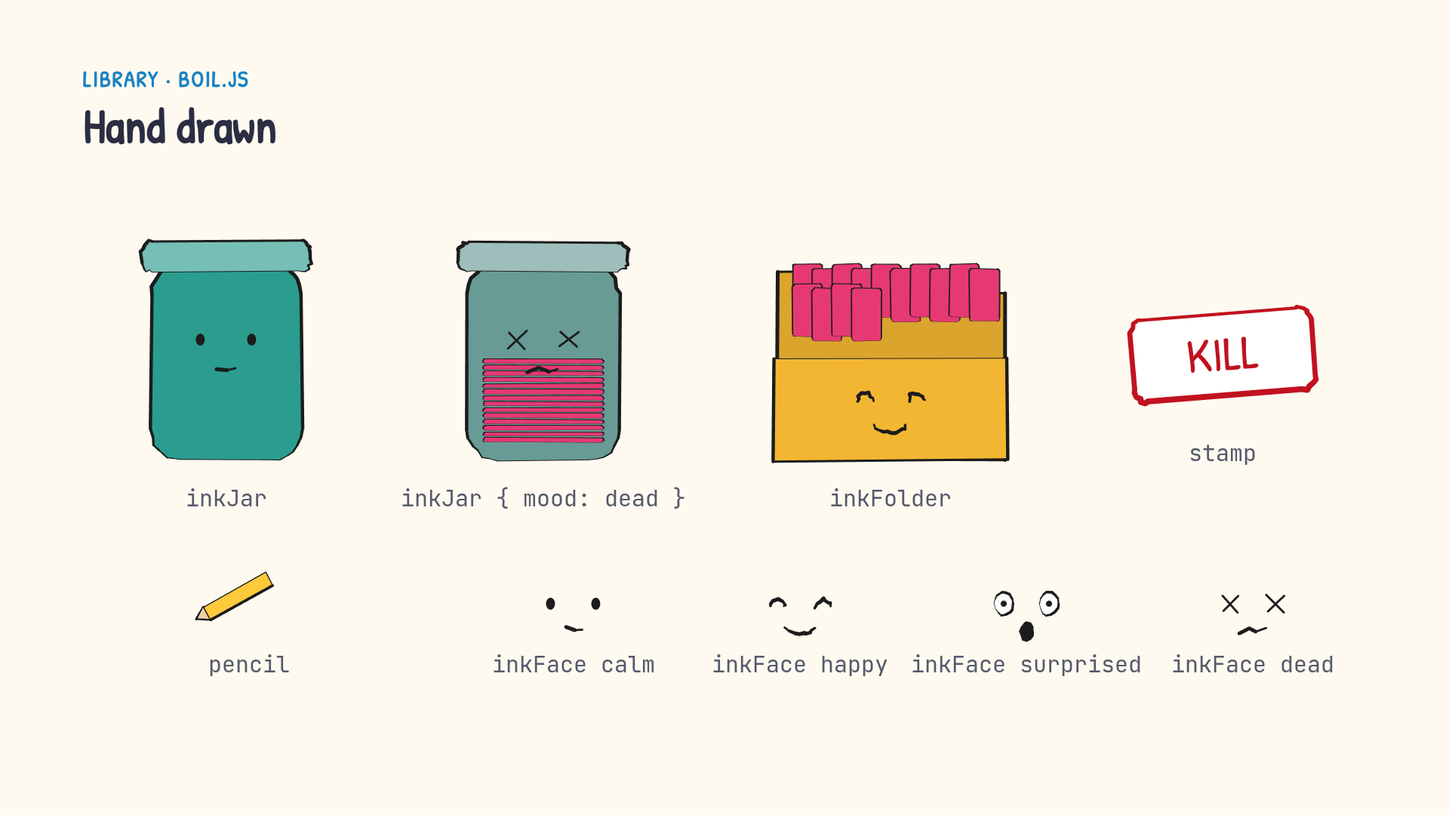
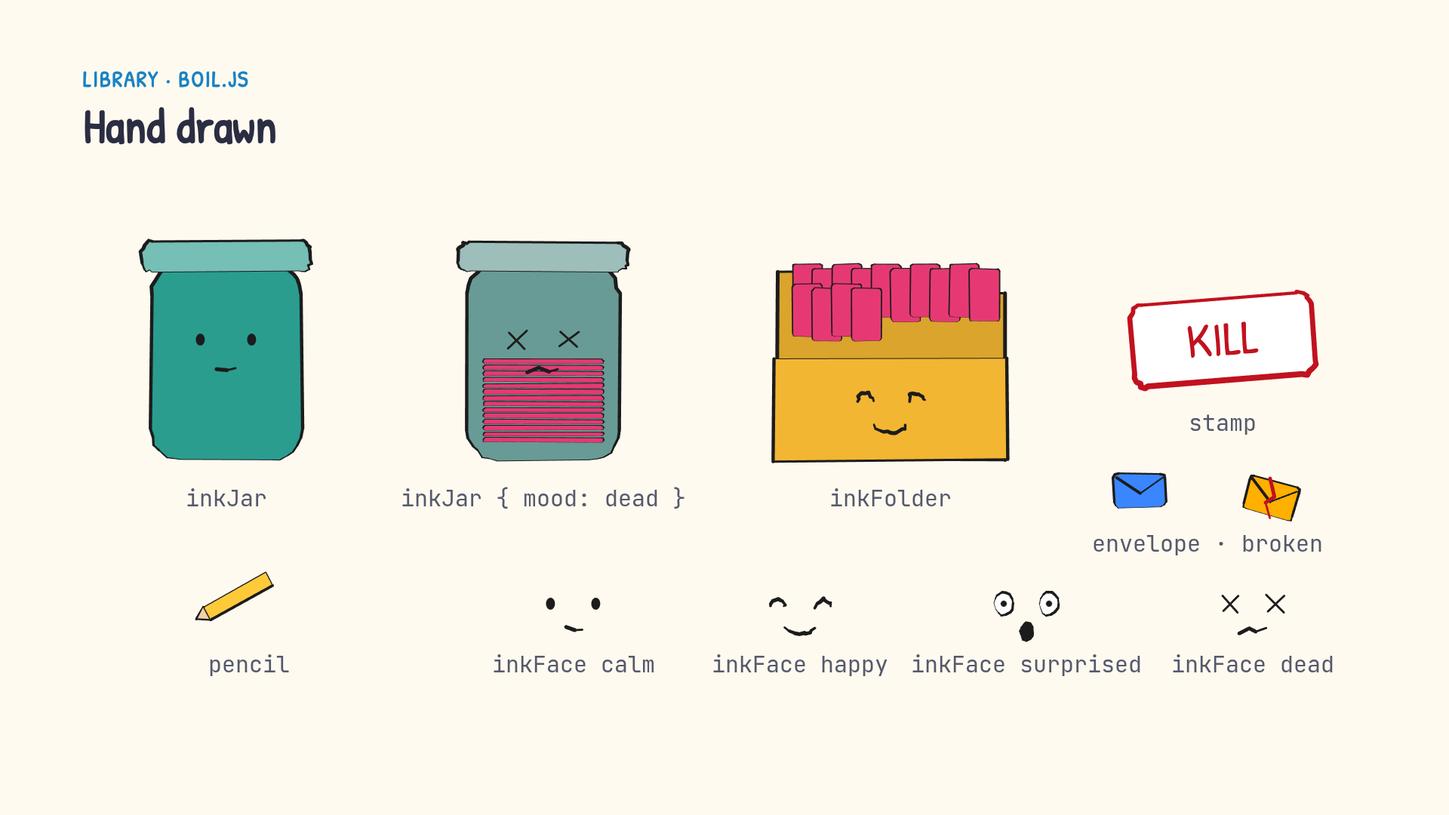
Add network drawings to the library; let verify check long videos
- Library: laptop (flat), envelope (boil), pxFrame, pxRing, pxPi, pxMac
  (pixel), eyeBlock and flag (toy 3D), and network colour roles in C
  (viewer, mcast, ucast, ws). All come from the DDS and Foxglove video
  (tank series, video 5), where they passed check, the rebuild check and
  verify.
- Gallery: the new items in the flat, boil and toy3d scenes, and a new
  pixel2 scene for the network characters, with its picture and caption.
- verify: raise the grey-frame buffer from 1 << 28 to 1 << 30. At
  160 x 90 grey, 1 << 28 held only about 10 min of video, and a 10 min
  45 s video stopped verify with ENOBUFS.

Changed region(s): [[0.7812, 0.3361, 0.9062, 0.5194], [0.8125, 0.5194, 0.9062, 0.6722], [0.75, 0.5806, 0.8125, 0.6722]]

diff --git a/gallery/scenes.js b/gallery/scenes.js
@@ -2,13 +2,13 @@
 // the last 8 draw every item of the shared library (styles/library/), one scene per module.
 // The end still of each scene is a picture in png/: <style>.png, or library-<module>.png.
 import { C, K, BG, FONT, header, showHeader, label, caption, lab, pin, arrow, leader, underLeader, tick, face, roundRect, wipeIn } from '/_lib/common.js';
-import { barrel, card, drone, folderBack, folderLip, gpuBox, tankSide, tankTop, tile } from '/_lib/flat.js';
+import { barrel, card, drone, folderBack, folderLip, gpuBox, laptop, tankSide, tankTop, tile } from '/_lib/flat.js';
 import { blobRow } from '/_lib/morph.js';
 import { isoBuilding, isoFileBlock, isoPlate, tone } from '/_lib/iso.js';
-import { BOIL, INK, inkFace, inkFolder, inkJar, pencil, stamp } from '/_lib/boil.js';
+import { BOIL, INK, envelope, inkFace, inkFolder, inkJar, pencil, stamp } from '/_lib/boil.js';
 import { PAPER, circlePts, paperCard, paperGrain, paperPerson, paperPiece, paperReceipt, rectPts } from '/_lib/paper.js';
-import { PX, pxCrate, pxDialog, pxGpu, pxPadlock, pxR, pxShelf, pxText, pxWorker } from '/_lib/pixel.js';
-import { cart, fileCube, gizmo, makeTank, nasTower, world } from '/_lib/toy3d.js';
+import { PX, pxCrate, pxDialog, pxFrame, pxGpu, pxMac, pxPadlock, pxPi, pxR, pxRing, pxShelf, pxText, pxWorker } from '/_lib/pixel.js';
+import { cart, eyeBlock, fileCube, flag, gizmo, makeTank, nasTower, world } from '/_lib/toy3d.js';
 
 // ==================== adapted styles ====================
 // ---------- newsreel ----------
@@ -123,7 +123,7 @@ scene('flat', {
     s.c = s.canvas();
     s.h = header(s, { kicker: 'LIBRARY · FLAT.JS', title: 'Flat props' });
     s.names = [
-      NM(s, 'drone', 330, 540), NM(s, 'barrel', 960, 580), NM(s, 'barrel { cut: 1 }', 1590, 580),
+      NM(s, 'drone', 330, 540), NM(s, 'barrel', 900, 580), NM(s, 'laptop', 1265, 580), NM(s, 'barrel { cut: 1 }', 1620, 580),
       NM(s, 'folderBack · tile · folderLip', 360, 880), NM(s, 'tankSide', 860, 880), NM(s, 'tankTop', 1130, 880),
       NM(s, 'card', 1450, 880), NM(s, 'gpuBox', 1700, 880),
     ];
@@ -132,8 +132,9 @@ scene('flat', {
     const c = s.c; c.clearRect(0, 0, W, H);
     showHeader(s, s.h, 0.1);
     drone(c, 330, 400, 0.9, s.t, { look: [0, 0.5] });
-    barrel(c, 960, 530, 170, 220);
-    barrel(c, 1590, 530, 200, 240, { cut: 1 });
+    barrel(c, 900, 530, 170, 220);
+    laptop(c, 1265, 530, 0.7, { mood: 'happy', map: 0.7 });
+    barrel(c, 1620, 530, 200, 240, { cut: 1 });
     folderBack(c, 360, 830, 360, 220);
     for (let i = 0; i < 6; i++) tile(c, 360 - 110 + (i % 3) * 110, 650 + Math.floor(i / 3) * 90, 70);
     folderLip(c, 360, 830, 360, 40);
@@ -197,7 +198,7 @@ scene('boil', {
     s.h = header(s, { kicker: 'LIBRARY · BOIL.JS', title: 'Hand drawn', font: FONT.hand, kColor: BOIL.blue, tSize: 64 });
     s.moods = ['calm', 'happy', 'surprised', 'dead'];
     s.names = [
-      NM(s, 'inkJar', 300, 660), NM(s, 'inkJar { mood: dead }', 720, 660), NM(s, 'inkFolder', 1180, 660), NM(s, 'stamp', 1620, 600),
+      NM(s, 'inkJar', 300, 660), NM(s, 'inkJar { mood: dead }', 720, 660), NM(s, 'inkFolder', 1180, 660), NM(s, 'stamp', 1620, 560), NM(s, 'envelope · broken', 1600, 720),
       NM(s, 'pencil', 330, 880), ...s.moods.map((m, i) => NM(s, `inkFace ${m}`, 760 + i * 300, 880)),
     ];
   },
@@ -207,7 +208,9 @@ scene('boil', {
     inkJar(s, c, 300, 610, { h: 260, w: 200 });
     inkJar(s, c, 720, 610, { h: 260, w: 200, mood: 'dead', pages: 14, fill: mix(K.file, '#9a9a9a', 0.55), seed: 60 });
     inkFolder(s, c, 1180, 610, { h: 220, mood: 'happy', sheets: 14 });
-    stamp(s, c, 1620, 470, 'KILL');
+    stamp(s, c, 1620, 450, 'KILL');
+    envelope(s, c, 1510, 650, C.ucast, 95);
+    envelope(s, c, 1690, 640, C.mcast, 97, { broken: 0.35 });
     pencil(s, c, 260, 820, -0.5, 80);
     s.moods.forEach((m, i) => inkFace(s, c, 760 + i * 300, 800, 30, m, 90 + i * 5));
     showAll(s, s.names);
@@ -269,6 +272,32 @@ scene('pixel', {
   },
 });
 
+// ============================ pixel.js, network characters ============================
+scene('pixel2', {
+  bg: PX.k,
+  setup(s) {
+    s.px = s.canvas({ w: 320, h: 180, pixel: true });
+  },
+  draw(s) {
+    const c = s.px, t = s.tq(10);
+    c.clearRect(0, 0, 320, 180);
+    pxR(c, 0, 0, 320, 180, 'k');
+    pxText(c, 'LIBRARY - PIXEL.JS, NETWORKS', 12, 10, PX.y);
+    for (let y = 98; y < 110; y++) for (let x = 0; x < 320; x++) if (0.2 > bayer(x, y)) pxR(c, x, y, 1, 1, 'g1');
+    for (let k = 0; k < 3; k++) { const r = 24 + ((t * 24 + k * 8) % 24); pxRing(c, 60, 78, r, r > 42 ? PX.o : PX.y, 40, 96); }
+    pxPi(c, 60, 88);
+    pxPi(c, 130, 88, { sad: true, dim: true });
+    pxMac(c, 200, 88, { mood: 'happy', topics: 1 });
+    pxMac(c, 270, 88, { mood: 'sad' });
+    pxText(c, 'PXPI PXRING', 30, 114, PX.g3);
+    pxText(c, 'DIM', 120, 114, PX.g3);
+    pxText(c, 'PXMAC', 186, 114, PX.g3);
+    pxText(c, 'SAD', 261, 114, PX.g3);
+    pxFrame(c, 8, 128, 304, 22, 'k', 'w');
+    pxText(c, 'PXFRAME - A BOX WITH A BORDER', 16, 136, PX.w);
+  },
+});
+
 // ============================ toy3d.js ============================
 scene('toy3d', {
   bg: BG.pink,
@@ -281,8 +310,10 @@ scene('toy3d', {
     for (let i = 0; i < 9; i++) { const f = fileCube(g, shared); shared = f.userData.shared; f.position.set(0.7 + (i % 3) * 0.42, 0, -0.1 + Math.floor(i / 3) * 0.42); scene.add(f); s.cubes.push(f); }
     s.nas = nasTower(g); s.nas.position.set(5.0, 0, -0.4); scene.add(s.nas);
     s.cart = cart(g); s.cart.position.set(3.2, 0, 0.9); scene.add(s.cart);
+    s.eye = eyeBlock(g, C.viewer, { dir: -1 }); s.eye.scale.setScalar(0.8); s.eye.position.set(1.6, 0, -2.6); scene.add(s.eye);
+    s.flag = flag(g, C.mcast); s.flag.position.set(-0.2, 0, -2.4); scene.add(s.flag);
     s.h = header(s, { kicker: 'LIBRARY · TOY3D.JS · world()', title: 'Toy 3D', kColor: '#b8406a' });
-    s.nm = { tank: NM(s, 'makeTank', 0, 0), gz: NM(s, 'gizmo', 0, 0), cubes: NM(s, 'fileCube', 0, 0), nas: NM(s, 'nasTower', 0, 0), cart: NM(s, 'cart', 0, 0) };
+    s.nm = { tank: NM(s, 'makeTank', 0, 0), gz: NM(s, 'gizmo', 0, 0), cubes: NM(s, 'fileCube', 0, 0), nas: NM(s, 'nasTower', 0, 0), cart: NM(s, 'cart', 0, 0), eye: NM(s, 'eyeBlock', 0, 0), flag: NM(s, 'flag', 0, 0) };
     await g.ready();
   },
   draw(s) {
@@ -294,6 +325,8 @@ scene('toy3d', {
     pin(s.nm.cubes, g.proj(V(1.1, 0, 1.6)));
     pin(s.nm.cart, g.proj(V(3.2, 0, 2.2)));
     pin(s.nm.nas, g.proj(V(5.0, 0, 1.3)));
+    pin(s.nm.eye, g.proj(V(1.6, 1.9, -2.6)));
+    pin(s.nm.flag, g.proj(V(-0.2, 1.9, -2.4)));
     Object.values(s.nm).forEach((n, i) => lab(s, n, 0.4 + i * 0.05));
     g.render();
   },

diff --git a/gallery/index.html b/gallery/index.html
@@ -277,19 +277,21 @@ footer p + p { margin-top: 10px; }
     <div class="frames">
       <figure class="big"><a href="png/library-common.png"><img src="png/library-common.png" width="1920" height="1080" alt="Common parts: six faces, an arrow, two leader lines and a tick, each with its function name" loading="lazy"></a>
         <figcaption><span class="mono">common.js</span>Every style uses these headers, labels, arrows and faces.</figcaption></figure>
-      <figure class="big"><a href="png/library-flat.png"><img src="png/library-flat.png" width="1920" height="1080" alt="Flat props: a drone, barrels, a folder of tiles, a tank, cards and a GPU box, some with faces" loading="lazy"></a>
+      <figure class="big"><a href="png/library-flat.png"><img src="png/library-flat.png" width="1920" height="1080" alt="Flat props: a drone, barrels, a laptop with a map, a folder of tiles, a tank, cards and a GPU box, some with faces" loading="lazy"></a>
         <figcaption><span class="mono">flat.js</span>The tank, the drone, the files and the boxes have faces.</figcaption></figure>
       <figure><a href="png/library-morph.png"><img src="png/library-morph.png" width="1920" height="1080" alt="Shape morph on navy: pink blobs join into one bar, then split into chunks" loading="lazy"></a>
         <figcaption><span class="mono">morph.js</span>Shapes join into one bar or split into chunks.</figcaption></figure>
       <figure><a href="png/library-iso.png"><img src="png/library-iso.png" width="1920" height="1080" alt="Isometric buildings: one closed, one with the roof lifted to show pink blocks inside" loading="lazy"></a>
         <figcaption><span class="mono">iso.js</span>A roof lifts to show what happens inside a building.</figcaption></figure>
-      <figure><a href="png/library-boil.png"><img src="png/library-boil.png" width="1920" height="1080" alt="Hand-drawn ink jars, a folder, a pencil, a stamp and ink faces" loading="lazy"></a>
+      <figure><a href="png/library-boil.png"><img src="png/library-boil.png" width="1920" height="1080" alt="Hand-drawn ink jars, a folder, a pencil, a stamp, two envelopes (one lost) and ink faces" loading="lazy"></a>
         <figcaption><span class="mono">boil.js</span>The ink lines change shape slightly 12 times a second, like a hand-drawn cartoon.</figcaption></figure>
       <figure><a href="png/library-paper.png"><img src="png/library-paper.png" width="1920" height="1080" alt="Paper cut-out shapes, a receipt, cards and two paper people, one holding a stop sign" loading="lazy"></a>
         <figcaption><span class="mono">paper.js</span>Card shapes have rough edges, and arms turn on split pins.</figcaption></figure>
       <figure><a href="png/library-pixel.png"><img src="png/library-pixel.png" width="1920" height="1080" alt="Pixel art: a shelf, a crate, a GPU, two small workers and a dialogue box" loading="lazy"></a>
         <figcaption><span class="mono">pixel.js</span>A 320 × 180 pixel canvas, scaled 6 times, shows typed dialogue.</figcaption></figure>
-      <figure><a href="png/library-toy3d.png"><img src="png/library-toy3d.png" width="1920" height="1080" alt="Toy 3D: a soft tank, an axis gizmo, file cubes, a cart and a server tower" loading="lazy"></a>
+      <figure><a href="png/library-pixel2.png"><img src="png/library-pixel2.png" width="1920" height="1080" alt="Pixel art for networks: the robot computer and the laptop as small characters, one dimmed, one sad, and a multicast ring" loading="lazy"></a>
+        <figcaption><span class="mono">pixel.js</span>Network characters: the robot computer, the laptop and a multicast ring.</figcaption></figure>
+      <figure><a href="png/library-toy3d.png"><img src="png/library-toy3d.png" width="1920" height="1080" alt="Toy 3D: a soft tank, an axis gizmo, file cubes, a cart, a server tower, a block with eyes and a flag" loading="lazy"></a>
         <figcaption><span class="mono">toy3d.js</span>Soft Three.js objects drop, land and cast a contact shadow.</figcaption></figure>
     </div>
   </div>

diff --git a/styles/library/pixel.js b/styles/library/pixel.js
@@ -1,6 +1,6 @@
 // Pixel-art parts (style: styles/pixel-art.md). Draw on s.canvas({ w: 320, h: 180, pixel: true }) from s.tq(10).
 // All positions are whole canvas pixels; 1 canvas px = 6 stage px.
-// import { PX, pxR, pxText, pxWorker, pxPadlock, pxGpu, pxShelf, pxCrate, pxDialog, pxFloor } from '/_lib/pixel.js';
+// import { PX, pxR, pxText, pxWorker, pxPadlock, pxGpu, pxShelf, pxCrate, pxDialog, pxFloor, pxFrame, pxRing, pxPi, pxMac } from '/_lib/pixel.js';
 
 // The fixed palette, plus two colour roles kept from the other styles: tl = a file (teal), pk = a chunk (pink).
 export const PX = { k: '#1a1c2c', p: '#5d275d', r: '#b13e53', o: '#ef7d57', y: '#ffcd75', lg: '#a7f070', g: '#38b764', b: '#41a6f6', g1: '#333c57', g2: '#566c86', g3: '#94b0c2', w: '#f4f4f4', tl: '#2a9d8f', pk: '#e63973' };
@@ -66,4 +66,33 @@ export function pxDialog(c, t, lines, { cps = 34 } = {}) {
   pxText(c, cur[1], 16, 130, PX.y);
   pxText(c, typed(cur[2], t - cur[0], cps), 16, 141, PX.w);
   if (Math.floor(t * 3) % 2) pxR(c, 302, 146, 4, 3, 'w');
+}
+
+// ---------- network characters (DDS and Foxglove video, tank series video 5) ----------
+// A box with a 1 px border.
+export function pxFrame(c, x, y, w, h, fill, border) { pxR(c, x, y, w, h, border); pxR(c, x + 1, y + 1, w - 2, h - 2, fill); }
+// A ring of single pixels (a multicast wave), squashed to 0.75 high, drawn only between rows yMin and yMax.
+export function pxRing(c, cx, cy, r, col, yMin = 0, yMax = 180) {
+  const n = Math.max(12, Math.round(r * 5));
+  for (let i = 0; i < n; i++) { const a = (i / n) * Math.PI * 2, y = Math.round(cy + Math.sin(a) * r * 0.75); if (y < yMin || y > yMax) continue; pxR(c, Math.round(cx + Math.cos(a) * r), y, 1, 1, col); }
+}
+// The robot computer as a small tank with a face (the Pi). (x, y) = centre of the base line. dim = greyed out.
+export function pxPi(c, x, y, { sad = false, dim = false, blink = false } = {}) {
+  const o = dim ? PX.g2 : '#f2773a', hi = dim ? PX.g3 : PX.y;
+  pxR(c, x - 15, y + 2, 30, 6, PX.g1); for (let i = 0; i < 5; i++) pxR(c, x - 13 + i * 6, y + 4, 3, 2, PX.g2);
+  pxR(c, x - 13, y - 14, 26, 16, o); pxR(c, x - 13, y - 14, 26, 2, hi);
+  pxR(c, x - 3, y - 19, 8, 5, dim ? PX.g2 : PX.pk);
+  if (!blink) { pxR(c, x + 1, y - 9, 2, 3, PX.k); pxR(c, x + 7, y - 9, 2, 3, PX.k); }
+  if (sad) pxR(c, x + 2, y - 3, 6, 1, PX.k); else { pxR(c, x + 2, y - 4, 1, 1, PX.k); pxR(c, x + 3, y - 3, 4, 1, PX.k); pxR(c, x + 7, y - 4, 1, 1, PX.k); }
+}
+// The viewer's laptop with a face (the Mac). topics 0..1 fills pink and yellow topic rows on its screen.
+export function pxMac(c, x, y, { mood = 'calm', topics = 0, blink = false } = {}) {
+  pxFrame(c, x - 16, y - 24, 32, 22, '#dfe3f5', '#3a3f6b');
+  pxR(c, x - 15, y - 23, 30, 1, '#3a3f6b');
+  pxR(c, x - 20, y - 2, 40, 3, '#3a3f6b');
+  if (topics > 0) { pxR(c, x - 13, y - 20, Math.round(10 * topics), 2, PX.pk); pxR(c, x - 13, y - 16, Math.round(10 * topics), 2, PX.y); pxR(c, x - 13, y - 12, Math.round(7 * topics), 2, PX.pk); }
+  if (!blink) { pxR(c, x + 3, y - 17, 2, 3, PX.k); pxR(c, x + 9, y - 17, 2, 3, PX.k); }
+  if (mood === 'sad') pxR(c, x + 4, y - 9, 6, 1, PX.k);
+  else if (mood === 'happy') { pxR(c, x + 3, y - 10, 1, 1, PX.k); pxR(c, x + 4, y - 9, 6, 1, PX.k); pxR(c, x + 10, y - 10, 1, 1, PX.k); }
+  else pxR(c, x + 5, y - 9, 4, 1, PX.k);
 }

diff --git a/styles/library/flat.js b/styles/library/flat.js
@@ -1,5 +1,5 @@
 // Flat-vector props (style: styles/flat-vector.md). Canvas 2D, flat fills, 4 px ink outlines.
-// import { tile, barrel, folderBack, folderLip, drone, tankSide, tankTop, card, gpuBox } from '/_lib/flat.js';
+// import { tile, barrel, folderBack, folderLip, drone, tankSide, tankTop, card, gpuBox, laptop } from '/_lib/flat.js';
 import { C, K, roundRect, face } from './common.js';
 
 // A chunk tile: rounded square with a small white wave (a signal window, a record). Centre (x, y).
@@ -139,4 +139,28 @@ export function tankTop(c, x, y, heading = 0, sc = 1, { color = C.robot, ink = C
   if (nose) { c.fillStyle = ink; c.beginPath(); c.moveTo(30, 0); c.lineTo(18, -8); c.lineTo(18, 8); c.closePath(); c.fill(); }
   if (lidar) { c.fillStyle = lidarColor; c.beginPath(); c.arc(4, 0, 9, 0, Math.PI * 2); c.fill(); c.stroke(); }
   c.restore();
+}
+
+// The viewer's laptop as a character (the Mac in the DDS video): a face on the right half of the screen,
+// a map panel on the left that fills with map (0..1), or a terminal with lines of text (term: ['line', ...]).
+// (x, y) = bottom centre of the base. From the DDS and Foxglove video (tank series, video 5).
+export function laptop(c, x, y, sc = 1, { mood = 'calm', look = [-1, 0], blink = 0, map = 0, mapColor = C.map, screen = C.viewerLight, body = C.viewer, term = null } = {}) {
+  c.save(); c.translate(x, y); c.scale(sc, sc);
+  c.lineJoin = 'round'; c.lineWidth = 5; c.strokeStyle = C.ink;
+  c.fillStyle = body; roundRect(c, -150, -210, 300, 200, 18); c.fill(); c.stroke();
+  c.fillStyle = screen; roundRect(c, -134, -194, 268, 168, 10); c.fill();
+  c.fillStyle = body; c.beginPath(); c.moveTo(-190, 0); c.lineTo(190, 0); c.lineTo(160, -14); c.lineTo(-160, -14); c.closePath(); c.fill(); c.stroke();
+  if (map > 0) {
+    const cells = [[0, 0], [1, 0], [0, 1], [1, 1], [2, 1], [1, 2], [2, 2], [0, 2], [2, 0], [1, 3], [0, 3], [2, 3]];
+    const n = Math.round(cells.length * clamp(map));
+    c.fillStyle = mapColor;
+    for (let i = 0; i < n; i++) { const [i0, j0] = cells[i]; c.fillRect(-122 + i0 * 34, -182 + j0 * 36, 32, 34); }
+  }
+  if (term) {
+    c.fillStyle = '#1b1e2e'; roundRect(c, -134, -194, 268, 168, 10); c.fill();
+    c.fillStyle = '#9ef0c0'; c.font = '500 26px "JetBrains Mono"'; c.textAlign = 'left'; c.textBaseline = 'top';
+    term.forEach((ln, i) => c.fillText(ln, -120, -180 + i * 34));
+  }
+  c.restore();
+  if (!term) face(c, x + 62 * sc, y - 120 * sc, 22 * sc, { mood, look, blink });
 }

diff --git a/styles/library/toy3d.js b/styles/library/toy3d.js
@@ -1,5 +1,5 @@
 // Toy 3D parts (style: styles/toy-3d.md). Three.js through s.three().
-// import { world, showK, AX, gizmo, gizmoGrow, tube, stretch, setOpacity, makeTank, fileCube, nasTower, cart } from '/_lib/toy3d.js';
+// import { world, showK, AX, gizmo, gizmoGrow, tube, stretch, setOpacity, makeTank, fileCube, nasTower, cart, eyeBlock, flag } from '/_lib/toy3d.js';
 //
 // Two rules learned on the GPU path (see SKILL.md step 8b):
 //  - Hide an object with showK(obj, k) (a tiny scale), not with obj.visible = false. An object
@@ -110,4 +110,25 @@ export function cart(g, { color = K.worker } = {}) {
   const load = g.box(0.26, 0.26, 0.26, K.chunk); load.position.y = 0.6; grp.add(load);
   grp.userData.load = load;
   return grp;
+}
+
+// A block character with two eyes on one side (a DDS writer or reader in the DDS video).
+// dir = 1 looks to +x, -1 to -x. Base on the floor at the group origin.
+export function eyeBlock(g, color, { w = 1.6, h = 1.4, d = 1.6, dir = 1 } = {}) {
+  const { THREE } = g, grp = new THREE.Group();
+  const b = g.box(w, h, d, color); b.position.y = h / 2; grp.add(b);
+  for (const z of [-0.28, 0.28]) {
+    const e = g.ball(0.16, '#ffffff'); e.scale.set(0.5, 1, 1); e.position.set(dir * w / 2, h * 0.68, z);
+    const p = g.ball(0.075, C.ink); p.position.set(dir * (w / 2 + 0.08), h * 0.68, z);
+    grp.add(e, p);
+  }
+  return grp;
+}
+// A small flag on a pole (a heartbeat or an ACKNACK message). Pole foot at the group origin.
+export function flag(g, color) {
+  const { THREE } = g, f = new THREE.Group();
+  const pole = g.cyl(0.04, 1.2, '#5b5f73'); pole.position.y = 0.6; f.add(pole);
+  const sh = new THREE.Shape(); sh.moveTo(0, 0); sh.lineTo(0.7, -0.22); sh.lineTo(0, -0.44); sh.lineTo(0, 0);
+  const tri = new THREE.Mesh(new THREE.ShapeGeometry(sh), g.mat(color, { side: THREE.DoubleSide })); tri.position.set(0.02, 1.2, 0); tri.castShadow = true; f.add(tri);
+  return f;
 }

diff --git a/styles/library/boil.js b/styles/library/boil.js
@@ -1,5 +1,5 @@
 // Line-boil (hand-drawn) parts (style: styles/line-boil.md). Every line boils: 3 jitter variants at 12 fps.
-// Draw from s.tq(12). import { INK, BOIL, inkLine, inkShape, ring, rrect, inkFace, pencil, stamp, inkJar, inkFolder } from '/_lib/boil.js';
+// Draw from s.tq(12). import { INK, BOIL, inkLine, inkShape, ring, rrect, inkFace, pencil, stamp, inkJar, inkFolder, envelope } from '/_lib/boil.js';
 import { K } from './common.js';
 
 export const INK = '#1c1c1c';
@@ -79,4 +79,16 @@ export function inkFolder(s, c, x, y, { h = 250, w = 300, fill = K.folder, mood 
   }
   inkShape(s, c, [[x - w / 2 - 6, y], [x - w / 2 - 6, y - h * 0.62], [x + w / 2 + 6, y - h * 0.62], [x + w / 2 + 6, y]], seed + 1, fill);
   inkFace(s, c, x, y - h * 0.38, 34, mood, seed + 2);
+}
+
+// A frame or packet as an envelope (WiFi frames in the DDS video), centre (x, y), fill col.
+// broken 0..1: a red crack, it tips over, drops 60 px and fades (a lost frame).
+export function envelope(s, c, x, y, col, seed, { k = 1, broken = 0 } = {}) {
+  if (k <= 0.01) return;
+  c.save(); c.translate(x, y); c.scale(k, k);
+  if (broken > 0) { c.rotate(broken * 0.8); c.translate(0, broken * 60); c.globalAlpha = 1 - clamp((broken - 0.6) / 0.4); }
+  inkShape(s, c, rrect(-34, -22, 68, 44, 6, 2), seed, col, { w: 3, amp: 1.4 });
+  inkLine(s, c, [[-30, -18], [0, 4], [30, -18]], seed + 1, { w: 3, amp: 1.2 });
+  if (broken > 0) inkLine(s, c, [[-8, -24], [4, -4], [-6, 8], [6, 26]], seed + 2, { w: 4, color: BOIL.red, amp: 1 });
+  c.restore();
 }

diff --git a/styles/library/common.js b/styles/library/common.js
@@ -22,6 +22,11 @@ export const C = {
   ghost: '#9aa0b4',                                               // greyed, before it matters
   paperInk: '#1c1c1c',
   light: '#e8e9f3',                                               // text on dark backgrounds
+  // Networks (DDS and Foxglove video): the viewer's laptop, multicast, unicast, a WebSocket link.
+  viewer: '#3a3f6b', viewerLight: '#dfe3f5',                      // the laptop that views the robot (the Mac)
+  mcast: '#ffb000', mcastInk: '#a86f00',                          // multicast, discovery announcements
+  ucast: '#3a86ff', ucastInk: '#1f5fcc',                          // unicast
+  ws: '#7b2cbf', wsInk: '#5a189a', wsOnDark: '#b388ff',           // a bridge or WebSocket link
 };
 // Data and software roles (Zarr vs HDF5 video). Same hues as C where the meaning is close.
 export const K = {

diff --git a/styles/library/README.md b/styles/library/README.md
@@ -14,26 +14,26 @@ The engine globals (E, clamp, lerp, mix, rng, set, el, wobble, strokeVar, iso, i
 
 ## Look at it
 
-The gallery project (`gallery/` at the repo root) draws every item with its function name in its last 8 scenes. Its end stills are the catalogue pictures `gallery/png/library-<module>.png` (one per module). Look at them at storyboard time (SKILL.md step 6).
+The gallery project (`gallery/` at the repo root) draws every item with its function name in its last 9 scenes. Its end stills are the catalogue pictures `gallery/png/library-<module>.png` (one per module; pixel has a second picture, `library-pixel2.png`, for the network characters). Look at them at storyboard time (SKILL.md step 6).
 
 ```bash
 make build gallery
-make still gallery common@end flat@end morph@end iso@end boil@end paper@end pixel@end toy3d@end
-for m in common flat morph iso boil paper pixel toy3d; do cp gallery/build/stills/$m@end.png gallery/png/library-$m.png; done
+make still gallery common@end flat@end morph@end iso@end boil@end paper@end pixel@end pixel2@end toy3d@end
+for m in common flat morph iso boil paper pixel pixel2 toy3d; do cp gallery/build/stills/$m@end.png gallery/png/library-$m.png; done
 ```
 
 ## Catalogue
 
 | Module | Style file | Items |
 |---|---|---|
-| `common.js` | all | `C` (robotics colour roles), `K` (data roles: file, folder, chunk, index, source, worker, ok, bad), `BG`, `FONT`; `header`, `showHeader`, `label`, `caption`, `lab`, `wipeIn`, `pin`, `hideAll`; `pop`, `bump`, `blinkAt`, `shuffled`; `leader`, `lead`, `underLeader` (anchor 'l' labels only), `arrow`, `roundRect`, `tick`; `face` (calm, happy, worried, surprised, sad, focus); `makeWipe`, `showWipe`, `showSlide`, `endWipe` |
-| `flat.js` | flat-vector | `tile` (chunk / window), `barrel` (one file; `cut` shows index + chunks inside), `folderBack` + `folderLip` (a folder / store), `drone`, `card` (box character), `gpuBox`, `tankSide`, `tankTop` |
+| `common.js` | all | `C` (robotics colour roles; network roles `viewer`, `mcast`, `ucast`, `ws`), `K` (data roles: file, folder, chunk, index, source, worker, ok, bad), `BG`, `FONT`; `header`, `showHeader`, `label`, `caption`, `lab`, `wipeIn`, `pin`, `hideAll`; `pop`, `bump`, `blinkAt`, `shuffled`; `leader`, `lead`, `underLeader` (anchor 'l' labels only), `arrow`, `roundRect`, `tick`; `face` (calm, happy, worried, surprised, sad, focus); `makeWipe`, `showWipe`, `showSlide`, `endWipe` |
+| `flat.js` | flat-vector | `tile` (chunk / window), `barrel` (one file; `cut` shows index + chunks inside), `folderBack` + `folderLip` (a folder / store), `drone`, `card` (box character), `gpuBox`, `tankSide`, `tankTop`, `laptop` (the viewer's laptop with a face, a map panel or a terminal) |
 | `morph.js` | shape-morph | `blobRow` (goo row: touching = one bar, gaps = chunks, `lift(i)`) |
 | `iso.js` | isometric | `tone`, `isoBuilding` (opens: `roofK` lifts and slides the roof; `contents(box)`), `isoPlate`, `isoFileBlock` (one file per block) |
-| `boil.js` | line-boil | `INK`, `BOIL`; `inkLine`, `inkShape`, `ring`, `rrect`, `inkFace` (calm, happy, surprised, dead), `pencil`, `stamp`, `inkJar` (one file with pages), `inkFolder` (a folder with sheets) |
+| `boil.js` | line-boil | `INK`, `BOIL`; `inkLine`, `inkShape`, `ring`, `rrect`, `inkFace` (calm, happy, surprised, dead), `pencil`, `stamp`, `inkJar` (one file with pages), `inkFolder` (a folder with sheets), `envelope` (a frame or packet; `broken` = lost) |
 | `paper.js` | paper-cutout | `PAPER`; `paperPiece`, `rectPts`, `circlePts`, `paperGrain`, `paperPerson` (split-pin arm, optional stop sign), `paperReceipt`, `paperCard` |
-| `pixel.js` | pixel-art | `PX` (palette + `tl` teal file, `pk` pink chunk); `pxR`, `pxText` (with "_"), `pxFloor`, `pxWorker`, `pxPadlock`, `pxGpu`, `pxShelf` (a store of separate tiles), `pxCrate` (one file), `pxDialog` |
-| `toy3d.js` | toy-3d | `world` (studio, opaque materials, `g.proj`, `g.orbit`, `g.ready()`), `showK` (hide by scale), `AX`, `gizmo`, `gizmoGrow`, `tube`, `stretch`, `setOpacity`, `makeTank`, `fileCube`, `nasTower`, `cart` |
+| `pixel.js` | pixel-art | `PX` (palette + `tl` teal file, `pk` pink chunk); `pxR`, `pxText` (with "_"), `pxFloor`, `pxWorker`, `pxPadlock`, `pxGpu`, `pxShelf` (a store of separate tiles), `pxCrate` (one file), `pxDialog`, `pxFrame`, `pxRing` (a multicast wave), `pxPi` (the robot computer), `pxMac` (the viewer's laptop) |
+| `toy3d.js` | toy-3d | `world` (studio, opaque materials, `g.proj`, `g.orbit`, `g.ready()`), `showK` (hide by scale), `AX`, `gizmo`, `gizmoGrow`, `tube`, `stretch`, `setOpacity`, `makeTank`, `fileCube`, `nasTower`, `cart`, `eyeBlock` (a writer or reader with eyes), `flag` (a message on a pole) |
 
 ## Rules
 

diff --git a/gallery/script.md b/gallery/script.md
@@ -28,5 +28,8 @@ Paper cut out: a person with a pin joint. [pause 0.4] A receipt, and cards.
 ## pixel {hold=3 min=7}
 Pixel art: a shelf, a crate, a {GPU|G P U}, workers, and a dialogue box.
 
+## pixel2 {hold=3 min=7}
+Pixel art for networks. [pause 0.4] A small robot, a laptop, and a multicast ring.
+
 ## toy3d {hold=3 min=7}
-Toy shapes in three dimensions: the tank, frame axes, file cubes, a network drive, and a cart.
+Toy shapes in three dimensions: the tank, frame axes, file cubes, a network drive, and a cart. [pause 0.4] Then a block with eyes, and a flag.
